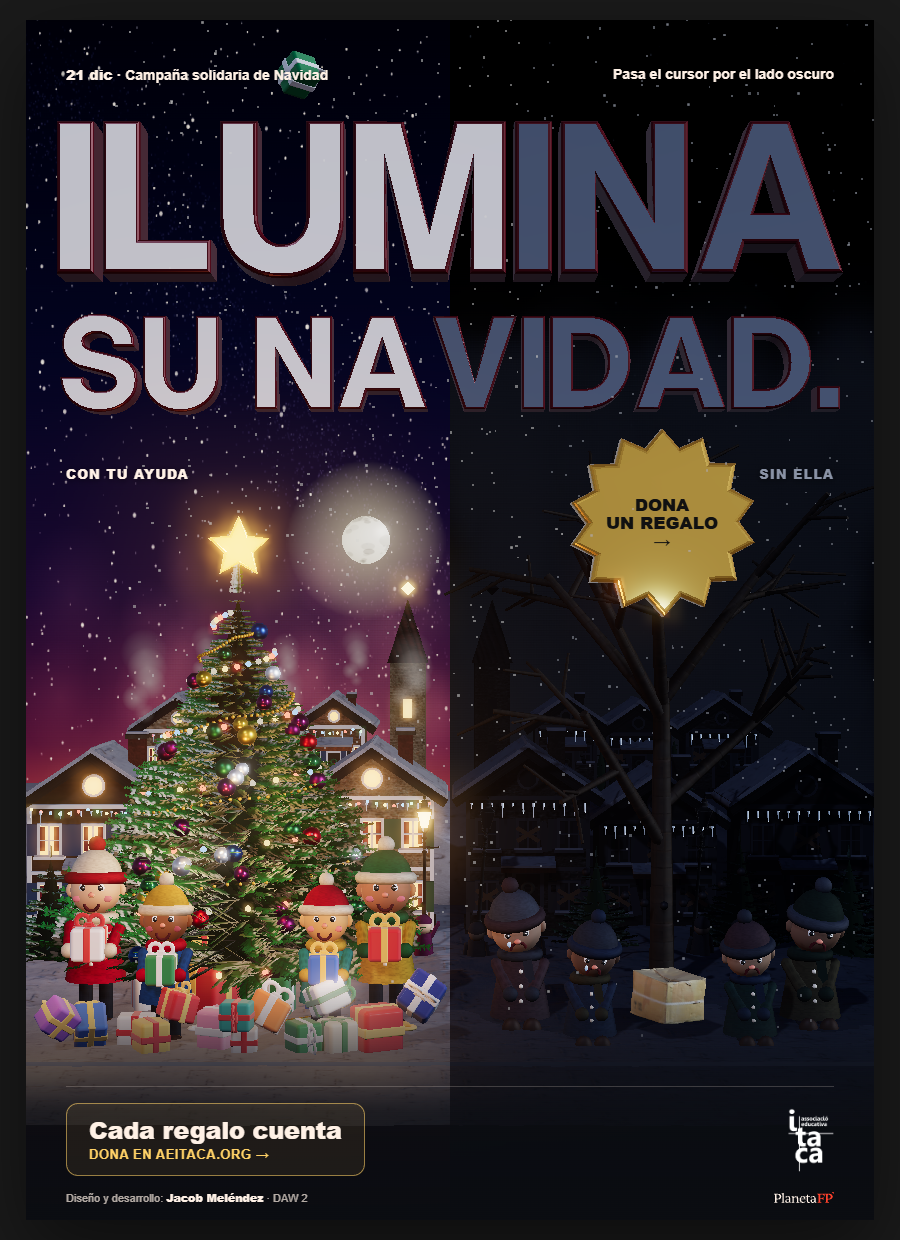
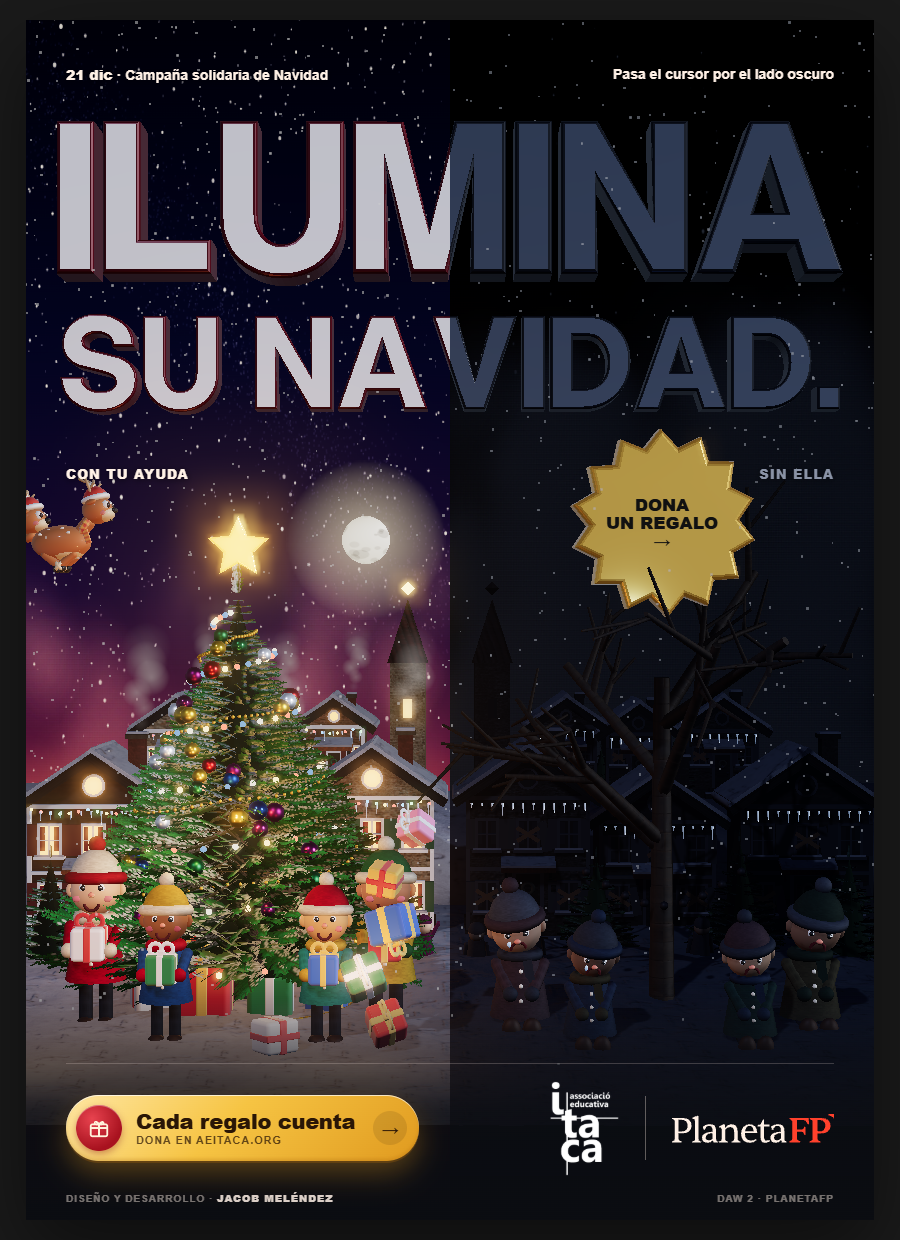
Lema partido por la línea central y nuevo botón de donar
- Las letras que cruzan el centro se pintan píxel a píxel: apagadas en
  el lado oscuro e iluminadas en el feliz (también el canto)
- Botón de donar del pie rediseñado: píldora dorada con icono de regalo
- Créditos más discretos

diff --git a/main.js b/main.js
@@ -1313,6 +1313,35 @@ const letras = [];
 const LEMA_Z = 0.8;
 const matLetraCanto = new THREE.MeshStandardMaterial({ color: "#6a0f1c", roughness: 0.35, metalness: 0.2, envMapIntensity: 0.8 });
 
+// Las letras que cruzan la línea central se parten en dos: lo que queda a la derecha
+// (x > 0 en el mundo, que es justo el centro del cartel) se pinta apagado, píxel a píxel.
+// uEncendido: 0 = apagado · 1 = como en el lado feliz (al donar o bajo la luz del cursor).
+const encendidoCanto = { value: 0 };
+function partirPorLado(material, colorApagado, uniformeEncendido) {
+  const apagado = { value: new THREE.Color(colorApagado) };
+  material.onBeforeCompile = (shader) => {
+    shader.uniforms.uApagado = apagado;
+    shader.uniforms.uEncendido = uniformeEncendido;
+    shader.vertexShader = shader.vertexShader
+      .replace("#include <common>", `#include <common>
+varying float vMundoX;`)
+      .replace("#include <worldpos_vertex>", `#include <worldpos_vertex>
+vMundoX = (modelMatrix * vec4(transformed, 1.0)).x;`);
+    shader.fragmentShader = shader.fragmentShader
+      .replace("#include <common>", `#include <common>
+varying float vMundoX;
+uniform vec3 uApagado;
+uniform float uEncendido;`)
+      .replace("#include <color_fragment>", `#include <color_fragment>
+        float ladoOscuro = smoothstep(-0.004, 0.004, vMundoX) * (1.0 - uEncendido);
+        diffuseColor.rgb = mix(diffuseColor.rgb, uApagado, ladoOscuro);`)
+      .replace("#include <emissivemap_fragment>", `#include <emissivemap_fragment>
+        totalEmissiveRadiance *= 1.0 - ladoOscuro;`);
+  };
+  material.customProgramCacheKey = () => "partido-" + colorApagado;
+}
+partirPorLado(matLetraCanto, "#1a1d24", encendidoCanto);
+
 function crearLema(fuente) {
   const kz = (D - LEMA_Z) / D;
   const anchoObjetivo = 7.68 * kz;
@@ -1327,7 +1356,10 @@ function crearLema(fuente) {
       const ancho = geo.boundingBox.max.x - geo.boundingBox.min.x;
       geo.translate(-geo.boundingBox.min.x - ancho / 2, 0, 0);
       const cara = new THREE.MeshPhysicalMaterial({ color: C.crema, roughness: 0.28, clearcoat: 1, clearcoatRoughness: 0.15, envMapIntensity: 1, emissive: "#000000" });
+      const encendido = { value: 0 };
+      partirPorLado(cara, "#4a505c", encendido);
       const letra = new THREE.Mesh(geo, [cara, matLetraCanto]);
+      letra.userData.encendido = encendido;
       letra.position.x = cursorX + ancho / 2;
       piezas.push({ letra, ancho });
       cursorX += ancho + 0.06;
@@ -1345,7 +1377,7 @@ function crearLema(fuente) {
       const centro = new THREE.Vector3();
       letra.getWorldPosition(centro);
       centro.y += altoLinea / 2;
-      letras.push({ letra, material: letra.material[0], lado: centro.x < 0 ? "feliz" : "triste", base: letra.position.z, influencia: 0, centro: aPixeles(centro) });
+      letras.push({ letra, material: letra.material[0], encendido: letra.userData.encendido, lado: centro.x < 0 ? "feliz" : "triste", base: letra.position.z, influencia: 0, centro: aPixeles(centro) });
     });
   });
 }
@@ -1384,12 +1416,13 @@ function pintarLetras(dt) {
     l.letra.position.z = l.base + l.z;
     l.letra.rotation.set(l.rx, l.ry, 0);
 
-    if (l.lado === "feliz") _base.copy(COLOR_LETRA.feliz);
-    else _base.lerpColors(COLOR_LETRA.apagada, COLOR_LETRA.feliz, calidez);
+    // el color base es el del lado feliz; el shader apaga la parte que cae en el lado oscuro
+    _base.copy(COLOR_LETRA.feliz);
+    l.encendido.value = Math.max(calidez, l.influencia);
     // la luz solo entibia la letra: un toque dorado, sin volverla de metal
     l.material.color.lerpColors(_base, COLOR_LETRA.dorada, l.influencia * 0.55);
     l.material.metalness = l.influencia * 0.25;
-    l.material.roughness = lerp(l.lado === "feliz" ? 0.28 : 0.6 - calidez * 0.32, 0.22, l.influencia);
+    l.material.roughness = lerp(0.28, 0.22, l.influencia);
     l.material.emissive.copy(COLOR_LETRA.dorada).multiplyScalar(l.influencia * 0.18);
   });
 }
@@ -2031,6 +2064,7 @@ function animar() {
   calidez = lerp(calidez, objetivoCalidez, Math.min(1, dt * (objetivoCalidez > calidez ? 0.9 : 1.6)));
   aplicarCalidez();
   cieloTristeCalido.material.opacity = calidez;
+  encendidoCanto.value = calidez;
   luzDonacion.intensity = calidez * 34;
   luzFria.intensity = 5 * (1 - calidez);
   arbolSeco.visible = calidez < 0.98;

diff --git a/style.css b/style.css
@@ -271,36 +271,70 @@ body {
   text-shadow: 0 1px 6px rgba(0, 0, 0, 0.7);
 }
 
-/* Llamada a donar en el centro del pie */
+/* Llamada a donar: botón dorado con relieve, icono de regalo y flecha */
 .pie__donar {
-  display: grid;
-  justify-items: start;
-  gap: 6px;
-  padding: 14px 22px;
-  border: 1px solid rgba(255, 209, 102, 0.55);
-  border-radius: 12px;
-  background: rgba(255, 209, 102, 0.08);
-  text-align: center;
+  display: flex;
+  align-items: center;
+  gap: 14px;
+  padding: 10px 12px 10px 10px;
+  border-radius: 999px;
+  background: linear-gradient(135deg, #ffe7a3 0%, #f6c443 45%, #e09a1f 100%);
+  color: #2a1606;
+  box-shadow:
+    0 12px 28px rgba(224, 154, 31, 0.35),
+    0 2px 0 rgba(120, 70, 10, 0.35),
+    inset 0 1px 0 rgba(255, 255, 255, 0.7),
+    inset 0 -2px 4px rgba(150, 80, 0, 0.25);
   white-space: nowrap;
-  transition: background 0.3s ease, border-color 0.3s ease;
+  transition: transform 0.35s var(--salida-rebote), box-shadow 0.35s ease;
 }
 
 .cartel.esta-donando .pie__donar {
-  background: rgba(255, 209, 102, 0.18);
-  border-color: var(--dorado);
+  transform: scale(1.04);
+  box-shadow:
+    0 16px 36px rgba(255, 196, 70, 0.55),
+    0 2px 0 rgba(120, 70, 10, 0.35),
+    inset 0 1px 0 rgba(255, 255, 255, 0.7),
+    inset 0 -2px 4px rgba(150, 80, 0, 0.25);
+}
+
+.pie__donar-icono {
+  display: grid;
+  place-items: center;
+  width: 46px;
+  height: 46px;
+  border-radius: 50%;
+  background: radial-gradient(circle at 35% 30%, #e8434f, #a8121f 70%);
+  color: #fff4dc;
+  box-shadow: inset 0 1px 0 rgba(255, 255, 255, 0.35), 0 3px 8px rgba(120, 10, 20, 0.4);
+}
+
+.pie__donar-texto {
+  display: grid;
+  gap: 3px;
 }
 
 .pie__donar-titulo {
-  font: 800 24px/1 var(--fuente-texto);
-  letter-spacing: -0.01em;
-  color: var(--crema);
+  font: 800 21px/1 var(--fuente-texto);
+  letter-spacing: -0.015em;
 }
 
 .pie__donar-accion {
-  font: 700 13px/1 var(--fuente-texto);
-  letter-spacing: 0.04em;
+  font: 700 11px/1 var(--fuente-texto);
+  letter-spacing: 0.08em;
   text-transform: uppercase;
-  color: var(--dorado);
+  color: rgba(42, 22, 6, 0.72);
+}
+
+.pie__donar-flecha {
+  display: grid;
+  place-items: center;
+  width: 34px;
+  height: 34px;
+  margin-left: 4px;
+  border-radius: 50%;
+  background: rgba(42, 22, 6, 0.12);
+  font: 800 17px/1 var(--fuente-texto);
 }
 
 .pie__donar:focus-visible {
@@ -344,16 +378,18 @@ body {
   position: absolute;
   left: var(--margen);
   right: var(--margen);
-  bottom: 14px;
+  bottom: 16px;
   display: flex;
   justify-content: space-between;
   align-items: center;
-  font: 500 11px/1 var(--fuente-texto);
-  color: rgba(255, 241, 230, 0.7);
+  font: 600 10px/1 var(--fuente-texto);
+  letter-spacing: 0.1em;
+  text-transform: uppercase;
+  color: rgba(255, 241, 230, 0.45);
 }
 
 .creditos strong {
-  color: var(--crema);
+  color: rgba(255, 241, 230, 0.85);
 }
 
 .creditos__logo {

diff --git a/index.html b/index.html
@@ -12,7 +12,7 @@
   <link href="https://fonts.googleapis.com/css2?family=Inter+Tight:wght@500;600;800&display=swap" rel="stylesheet">
 
   <!-- ?v= obliga al navegador a descargar la versión nueva tras cada cambio -->
-  <link rel="stylesheet" href="style.css?v=real-22">
+  <link rel="stylesheet" href="style.css?v=real-24">
 
   <!-- Three.js (escena 3D realista) y cannon-es (física de los regalos) -->
   <script type="importmap">
@@ -24,7 +24,7 @@
       }
     }
   </script>
-  <script type="module" src="main.js?v=real-22"></script>
+  <script type="module" src="main.js?v=real-24"></script>
 </head>
 <body>
 
@@ -63,8 +63,17 @@
 
         <!-- Llamada a donar: ocupa el centro del pie -->
         <a class="pie__donar" href="https://aeitaca.org/haz-un-donativo/" target="_blank" rel="noopener">
-          <span class="pie__donar-titulo">Cada regalo cuenta</span>
-          <span class="pie__donar-accion">Dona en aeitaca.org →</span>
+          <span class="pie__donar-icono" aria-hidden="true">
+            <svg viewBox="0 0 24 24" width="22" height="22" fill="none" stroke="currentColor" stroke-width="2" stroke-linecap="round" stroke-linejoin="round">
+              <rect x="3" y="8" width="18" height="13" rx="2"/><path d="M12 8v13M3 12h18"/>
+              <path d="M12 8c-1.5-3-5-3.5-5-1.2C7 8 9.5 8 12 8zM12 8c1.5-3 5-3.5 5-1.2C17 8 14.5 8 12 8z"/>
+            </svg>
+          </span>
+          <span class="pie__donar-texto">
+            <span class="pie__donar-titulo">Cada regalo cuenta</span>
+            <span class="pie__donar-accion">Dona en aeitaca.org</span>
+          </span>
+          <span class="pie__donar-flecha" aria-hidden="true">→</span>
         </a>
 
         <!-- Logos: Itaca y PlanetaFP, uno al lado del otro -->
@@ -77,7 +86,8 @@
       </footer>
 
       <p class="creditos">
-        <span>Diseño y desarrollo: <strong>Jacob Meléndez</strong> · DAW 2</span>
+        <span>Diseño y desarrollo · <strong>Jacob Meléndez</strong></span>
+        <span>DAW 2 · PlanetaFP</span>
       </p>
 
       <!-- Mientras se carga el 3D (o si el navegador no puede mostrarlo) -->
